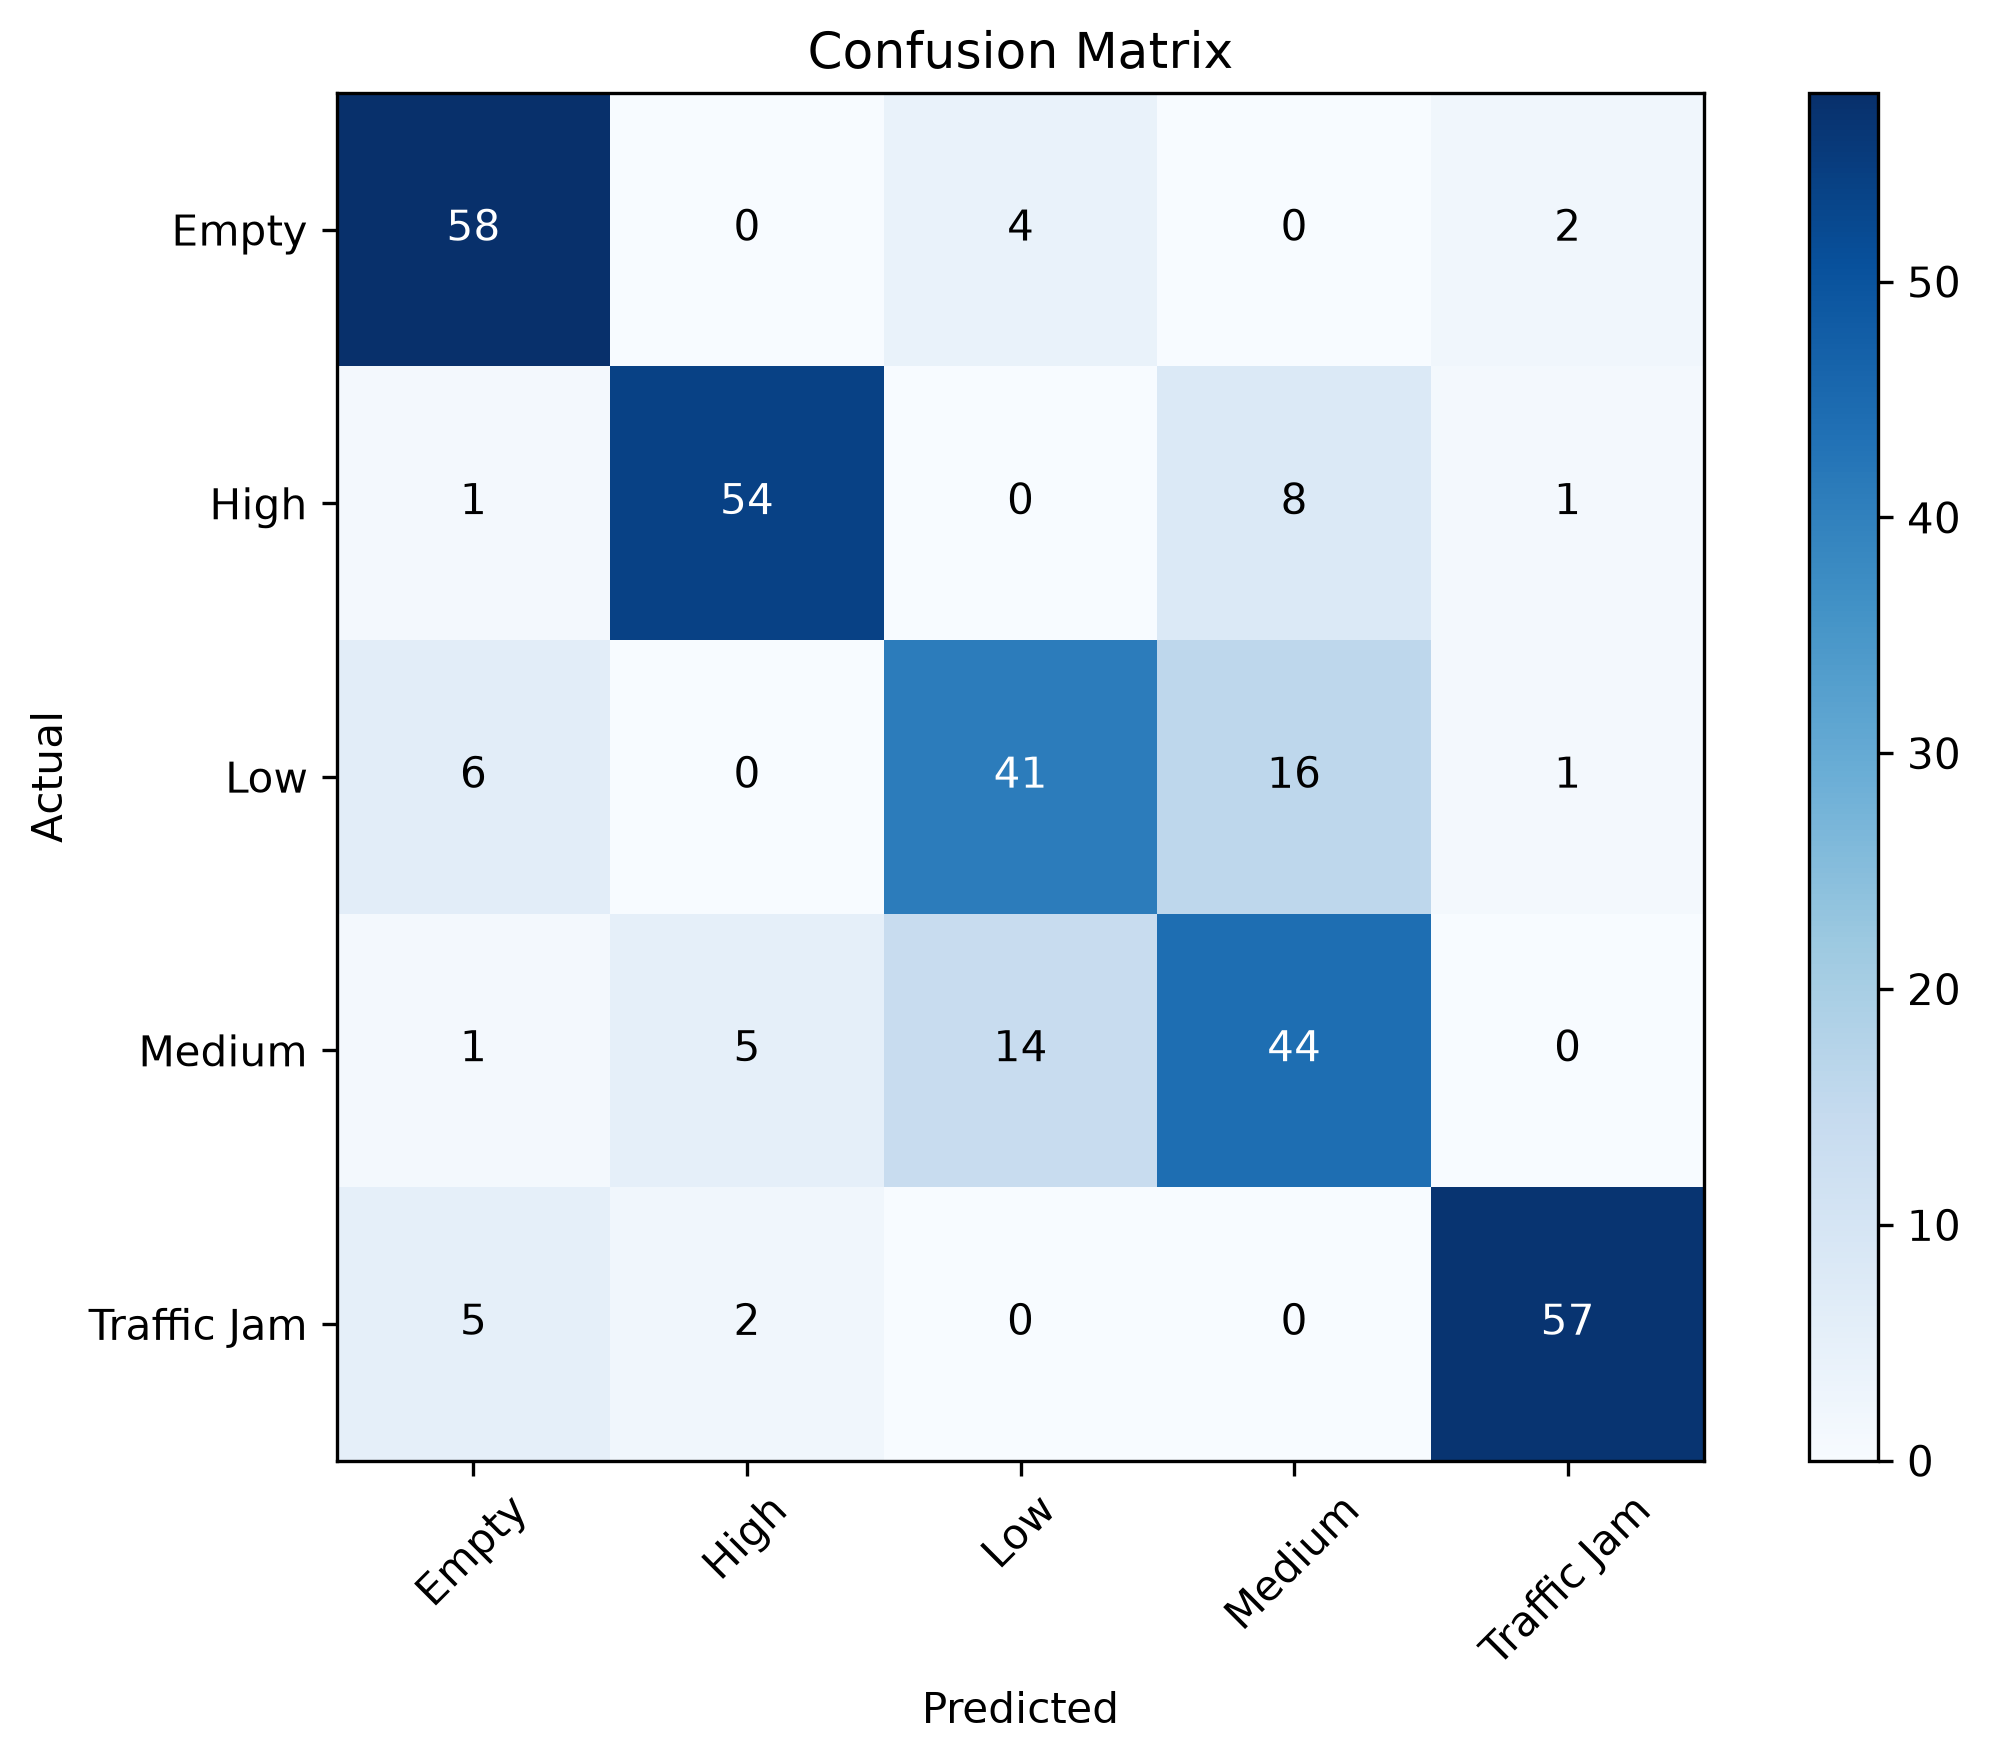
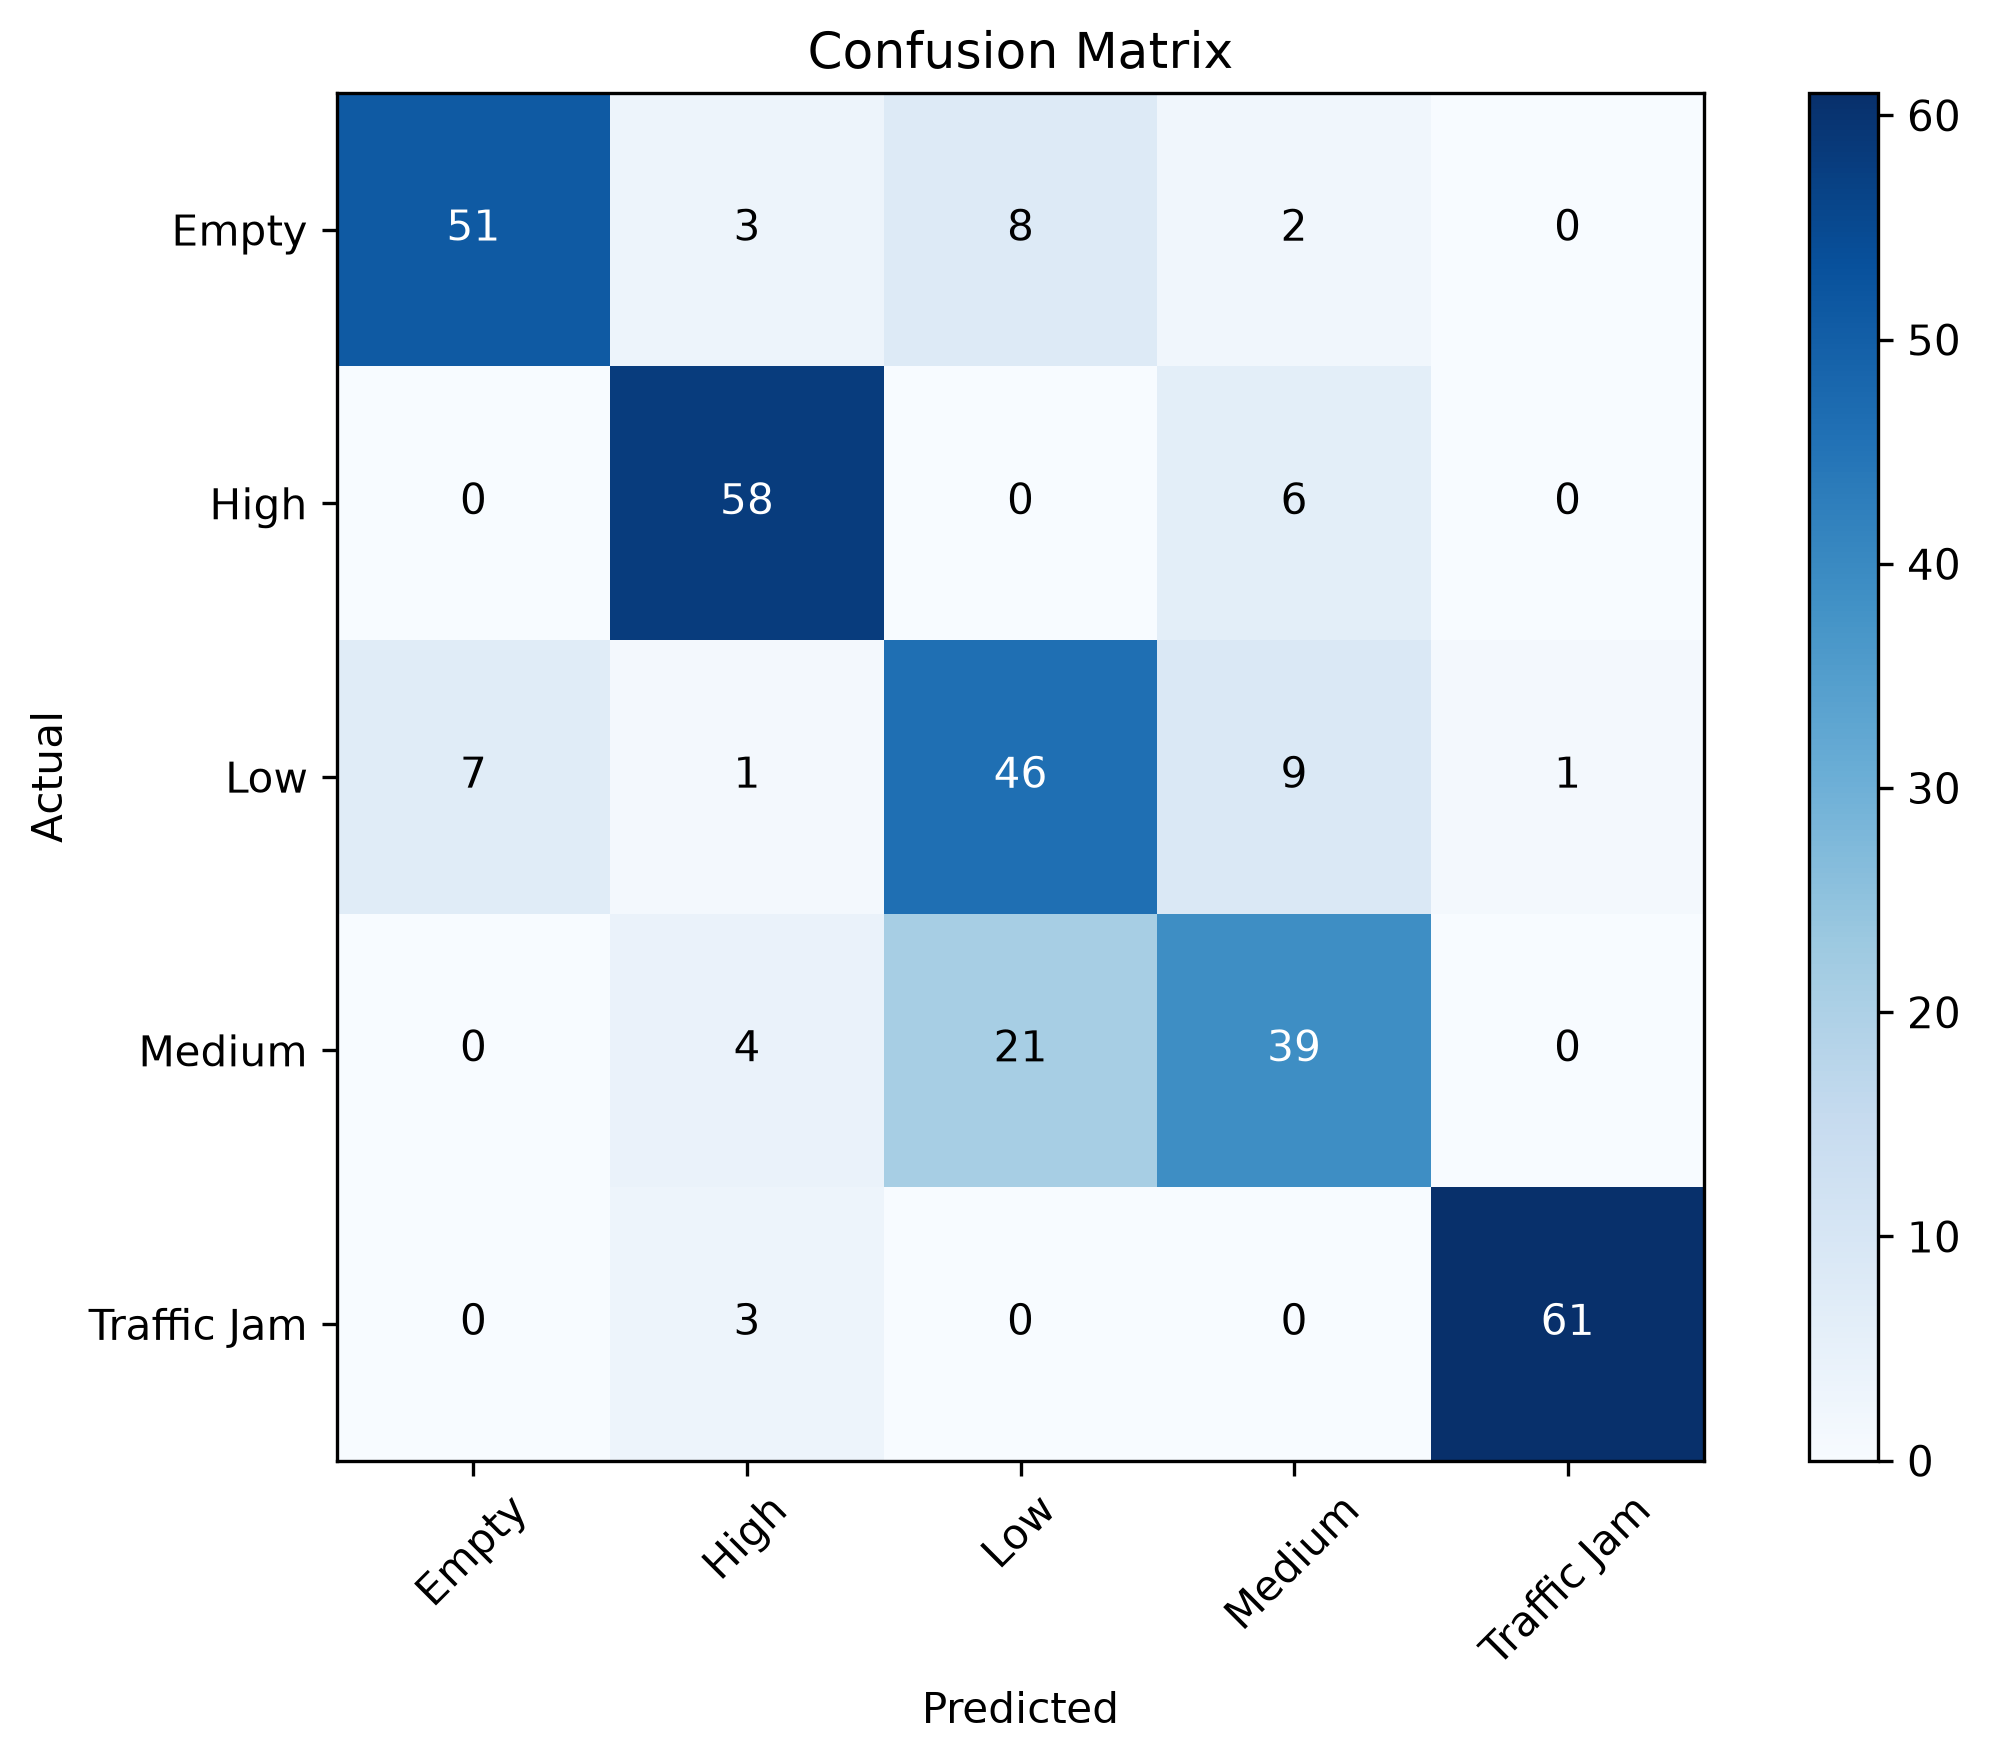
feat: add ResNet18 transfer learning and model comparison

diff --git a/src/resnet_model.py b/src/resnet_model.py
@@ -11,21 +11,40 @@ from torchvision import models
 
 
 class TrafficResNet(nn.Module):
+    """
+    ResNet18 Transfer Learning Model
+    """
 
     def __init__(self, num_classes=5):
 
         super(TrafficResNet, self).__init__()
 
-        # Load pretrained ResNet18
+        # =====================================================
+        # Load Pretrained ResNet18
+        # =====================================================
+
         self.model = models.resnet18(
             weights=models.ResNet18_Weights.DEFAULT
         )
 
-        # Freeze pretrained layers
+        # =====================================================
+        # Freeze Entire Network
+        # =====================================================
+
         for param in self.model.parameters():
             param.requires_grad = False
 
-        # Replace classifier
+        # =====================================================
+        # Unfreeze Last Residual Block (layer4)
+        # =====================================================
+
+        for param in self.model.layer4.parameters():
+            param.requires_grad = True
+
+        # =====================================================
+        # Replace Final Classifier
+        # =====================================================
+
         in_features = self.model.fc.in_features
 
         self.model.fc = nn.Sequential(
@@ -40,19 +59,50 @@ class TrafficResNet(nn.Module):
 
         )
 
+        # Make sure classifier is trainable
+
+        for param in self.model.fc.parameters():
+            param.requires_grad = True
+
+    # =====================================================
+    # Forward Pass
+    # =====================================================
+
     def forward(self, x):
 
         return self.model(x)
 
 
+# =====================================================
+# Test
+# =====================================================
+
 if __name__ == "__main__":
 
     model = TrafficResNet()
 
-    dummy = torch.randn(1, 3, 224, 224)
+    dummy_input = torch.randn(1, 3, 224, 224)
 
-    output = model(dummy)
+    output = model(dummy_input)
+
+    print("=" * 60)
+    print("ResNet18 Loaded Successfully")
+    print("=" * 60)
 
     print(model)
 
     print("\nOutput Shape:", output.shape)
+
+    trainable_params = sum(
+        p.numel()
+        for p in model.parameters()
+        if p.requires_grad
+    )
+
+    total_params = sum(
+        p.numel()
+        for p in model.parameters()
+    )
+
+    print(f"\nTrainable Parameters : {trainable_params:,}")
+    print(f"Total Parameters     : {total_params:,}")

diff --git a/src/train_resnet.py b/src/train_resnet.py
@@ -15,7 +15,7 @@ import torch.optim as optim
 from dataset_resnet import create_dataloaders
 from resnet_model import TrafficResNet
 from config import *
-
+RESNET_MODEL_PATH = MODEL_DIR / "traffic_resnet18.pth"
 
 # ==========================================================
 # Calculate Class Weights
@@ -246,7 +246,7 @@ def save_model(model, path):
 
     print("\nBest model saved successfully!")
 
-    print(MODEL_PATH)
+    print(RESNET_MODEL_PATH)
 
 
 # ==========================================================
@@ -314,8 +314,8 @@ criterion = nn.CrossEntropyLoss(
     )
 
 optimizer = optim.Adam(
-    model.model.fc.parameters(),
-    lr=0.001
+    filter(lambda p: p.requires_grad, model.parameters()),
+    lr=0.0001
 )
 
 print("\nLoss Function : Weighted CrossEntropyLoss")
@@ -433,8 +433,11 @@ for epoch in range(len(train_losses)):
 
 print("\nTraining completed successfully!")
 
-print(f"\nModel saved at:\n{MODEL_PATH}")
 
+
+print("Model saved at:")
+
+print(MODEL_DIR / "traffic_resnet18.pth")
 print(f"\nTraining history saved at:\n{LOG_DIR / 'training_history.csv'}")
 
 

diff --git a/src/config.py b/src/config.py
@@ -41,7 +41,7 @@ BATCH_SIZE = 8
 
 LEARNING_RATE = 0.001
 
-EPOCHS = 3
+EPOCHS = 10
 
 RANDOM_SEED = 42
 